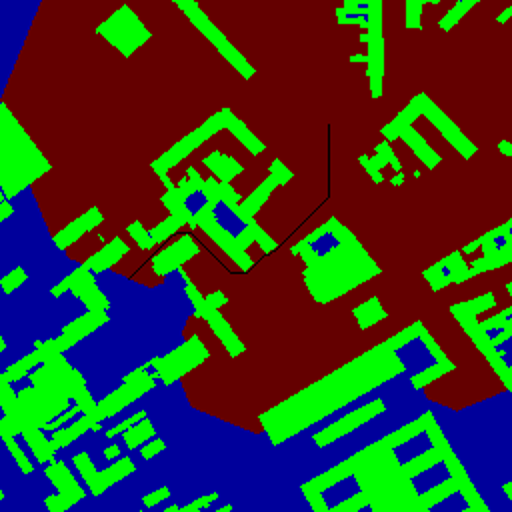
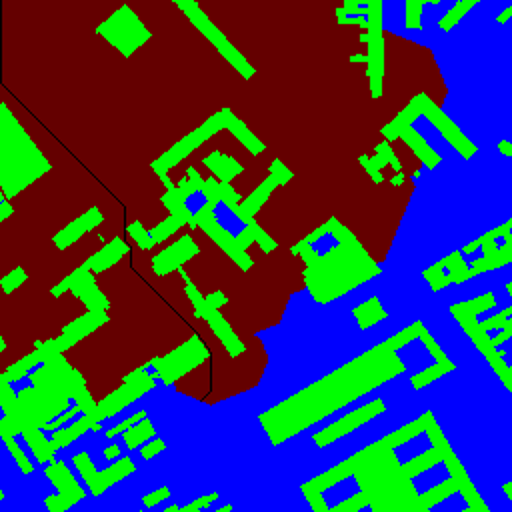
increase test coverage

diff --git a/src/tests/map_image_test.py b/src/tests/map_image_test.py
@@ -1,5 +1,5 @@
 import unittest
-from unittest.mock import patch, mock_open
+import math
 from map_image import MapImage
 from pathlib import Path
 
@@ -8,26 +8,43 @@ THIS_DIR = Path(__file__).parent
 
 class TestDijkstra(unittest.TestCase):
     def setUp(self):
-        my_data_path = THIS_DIR / 'simple.map'
-        self.image = MapImage(3, 3)
-        self.image.import_map(my_data_path)
+        simple_map = THIS_DIR / 'simple.map'
+        empty_map = THIS_DIR / 'empty.map'
+        self.simple_image = MapImage((255, 0, 0), (0, 255, 0))
+        self.simple_image.import_map(simple_map)
+        self.empty_image = MapImage((255, 0, 0), (0, 255, 0))
+        self.empty_image.import_map(empty_map)
 
     def test_import_map(self):
-        self.assertEqual(self.image.data, [[".", ".", "."], [
+        self.assertEqual(self.simple_image.data, [[".", ".", "."], [
                          ".", "@", "."], [".", ".", "."]])
 
-    def test_create_graph(self):
+    def test_import_map_no_obstacles(self):
+        self.assertEqual(self.empty_image.data, [[".", "."], [
+                         ".", "."]])
+
+    def test_create_simple_graph(self):
         result = {(0, 0): [((0, 1), 1), ((1, 0), 1)], (0, 1): [((0, 0), 1), ((0, 2), 1)],
                   (0, 2): [((0, 1), 1), ((1, 2), 1)], (1, 0): [((0, 0), 1), ((2, 0), 1)],
                   (1, 1): [], (1, 2): [((0, 2), 1), ((2, 2), 1)],
                   (2, 0): [((1, 0), 1), ((2, 1), 1)],
                   (2, 1): [((2, 0), 1), ((2, 2), 1)], (2, 2): [((1, 2), 1), ((2, 1), 1)]}
-        graph = self.image.create_graph()
-        print(graph)
+        graph = self.simple_image.create_graph()
+        self.assertEqual(graph, result)
+
+    def test_create_empty_graph(self):
+        diag = math.sqrt(2)
+        result = {(0, 0): [((0, 1), 1), ((1, 0), 1), ((1, 1), diag)],
+                  (0, 1): [((0, 0), 1), ((1, 1), 1), ((1, 0), diag)],
+                  (1, 0): [((0, 0), 1), ((1, 1), 1), ((0, 1), diag)],
+                  (1, 1): [((0, 1), 1), ((1, 0), 1), ((0, 0), diag)]}
+        graph = self.empty_image.create_graph()
         self.assertEqual(graph, result)
 
     def test_add_route(self):
         route = [(0, 1), (1, 1), (1, 2)]
-        self.image.add_route(route, (100, 100, 100))
-        self.assertEqual(self.image.image.getpixel((1, 1)), (100, 100, 100))
-        self.assertNotEqual(self.image.image.getpixel((0, 0)), (100, 100, 100))
+        self.simple_image.add_route(route, (100, 100, 100))
+        self.assertEqual(self.simple_image.image.getpixel(
+            (1, 1)), (100, 100, 100))
+        self.assertNotEqual(
+            self.simple_image.image.getpixel((0, 0)), (100, 100, 100))

diff --git a/src/map_image.py b/src/map_image.py
@@ -11,13 +11,13 @@ class MapImage:
         height: Input map height
     """
 
-    def __init__(self, width, height):
-        self.width = width
-        self.height = height
+    def __init__(self, fg_color, bg_color):
         self.mode = 'RGB'
-        self.image = Image.new(self.mode, (self.width, self.height))
+        self.fg_color = fg_color
+        self.bg_color = bg_color
+        self.size = 0
+        self.image = None
         self.data = []
-        self.map = None
 
     def import_map(self, i_map):
         """Imports map file and converts it to image format and list.
@@ -25,7 +25,12 @@ class MapImage:
         Args:
             map: Name of a map file.
         """
-        self.map = i_map
+        with open(i_map, encoding="utf-8") as fil:
+            self.size = len(fil.readlines())
+        self.size -= 4
+
+        self.image = Image.new(self.mode, (self.size, self.size))
+
         data = []
         with open(i_map, encoding="utf-8") as fil:
             for x, line in enumerate(fil):
@@ -35,10 +40,10 @@ class MapImage:
                 row = []
                 for y, symbol in enumerate(line):
                     if symbol == ".":
-                        self.image.putpixel((y, x), (0, 0, 155))
+                        self.image.putpixel((y, x), self.bg_color)
                         row.append(symbol)
                     elif symbol == "@":
-                        self.image.putpixel((y, x), (0, 255, 0))
+                        self.image.putpixel((y, x), self.fg_color)
                         row.append(symbol)
                 data.append(row)
 
@@ -92,12 +97,12 @@ class MapImage:
         for i in route:
             self.image.putpixel((i[0], i[1]), color)
 
-    def save(self, size, name):
+    def save(self, name, scale=1):
         """Saves image as png file.
 
         Args:
-            size: Output image size.
+            scale: Output image scaling size.
             name: Output file name.
         """
-        image = self.image.resize(size)
+        image = self.image.resize((scale*self.size, scale*self.size))
         image.save(name + '.png')

diff --git a/src/index.py b/src/index.py
@@ -4,16 +4,21 @@ from map_image import MapImage
 from dijkstra import Dijkstra
 from a_star import AStar
 
+OBSTACLE_COLOR = (0, 255, 0)
+BACKGROUND_COLOR = (0, 0, 255)
+VISITED_COLOR = (100, 0, 0)
+ROUTE_COLOR = (0, 0, 0)
+SCALE_FACTOR = 2
+
 
 def main():
     algorithm = sys.argv[1]
     image_map = sys.argv[2]
     start = (int(sys.argv[3]), int(sys.argv[4]))
     end = (int(sys.argv[5]), int(sys.argv[6]))
-    image = MapImage(256, 256)
-    output_size = (512, 512)
+    image = MapImage(OBSTACLE_COLOR, BACKGROUND_COLOR)
     image.import_map("data/" + image_map + ".map")
-    image.save(output_size, "data/" + image_map + "_original")
+    image.save("data/" + image_map + "_original", SCALE_FACTOR)
     graph = image.create_graph()
     if algorithm == "a_star":
         alg = AStar()
@@ -25,9 +30,9 @@ def main():
     end_time = time.time()
     print("Shortest distance: ", shortest_distance)
     print("Time used: ", end_time - start_time)
-    image.add_route(visited, (100, 0, 0))
-    image.add_route(route, (0, 0, 0))
-    image.save(output_size, "data/" + image_map + "_route")
+    image.add_route(visited, VISITED_COLOR)
+    image.add_route(route, ROUTE_COLOR)
+    image.save("data/" + image_map + "_route", SCALE_FACTOR)
 
 
 if __name__ == "__main__":

diff --git a/src/tests/distance_test.py b/src/tests/distance_test.py
@@ -1,0 +1,12 @@
+import unittest
+from distance import Distance
+
+
+class TestDistance(unittest.TestCase):
+    def test_default_behavior(self):
+        dist = Distance()
+        start = (0, 0)
+        end = (1, 1)
+        graph = {}
+        self.assertEqual(dist.heuristic(start, end), None)
+        self.assertEqual(dist.calculate_distance(graph, start, end), None)
